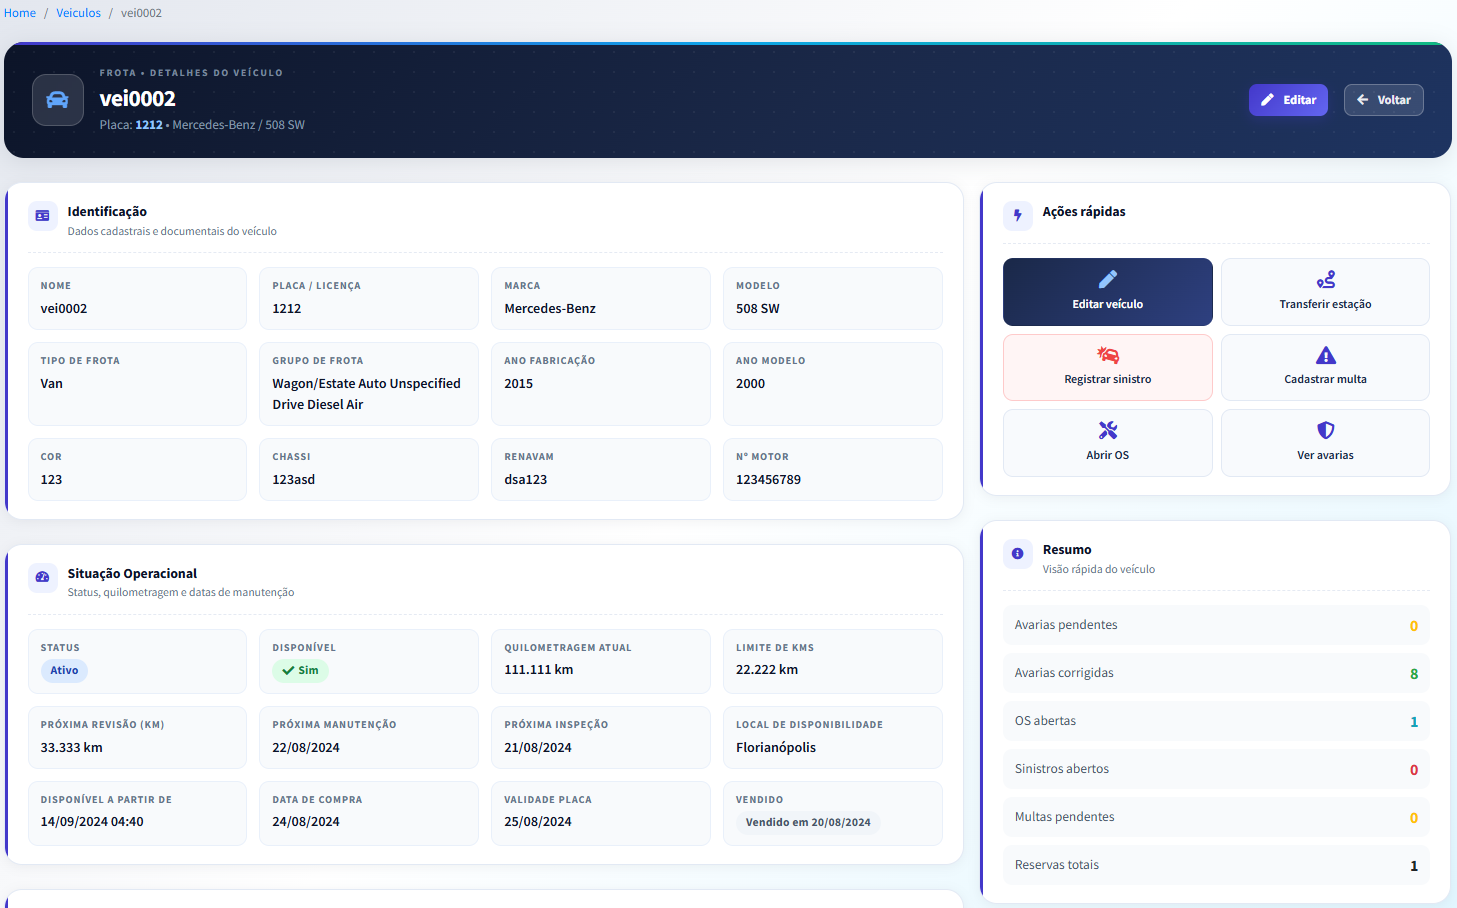
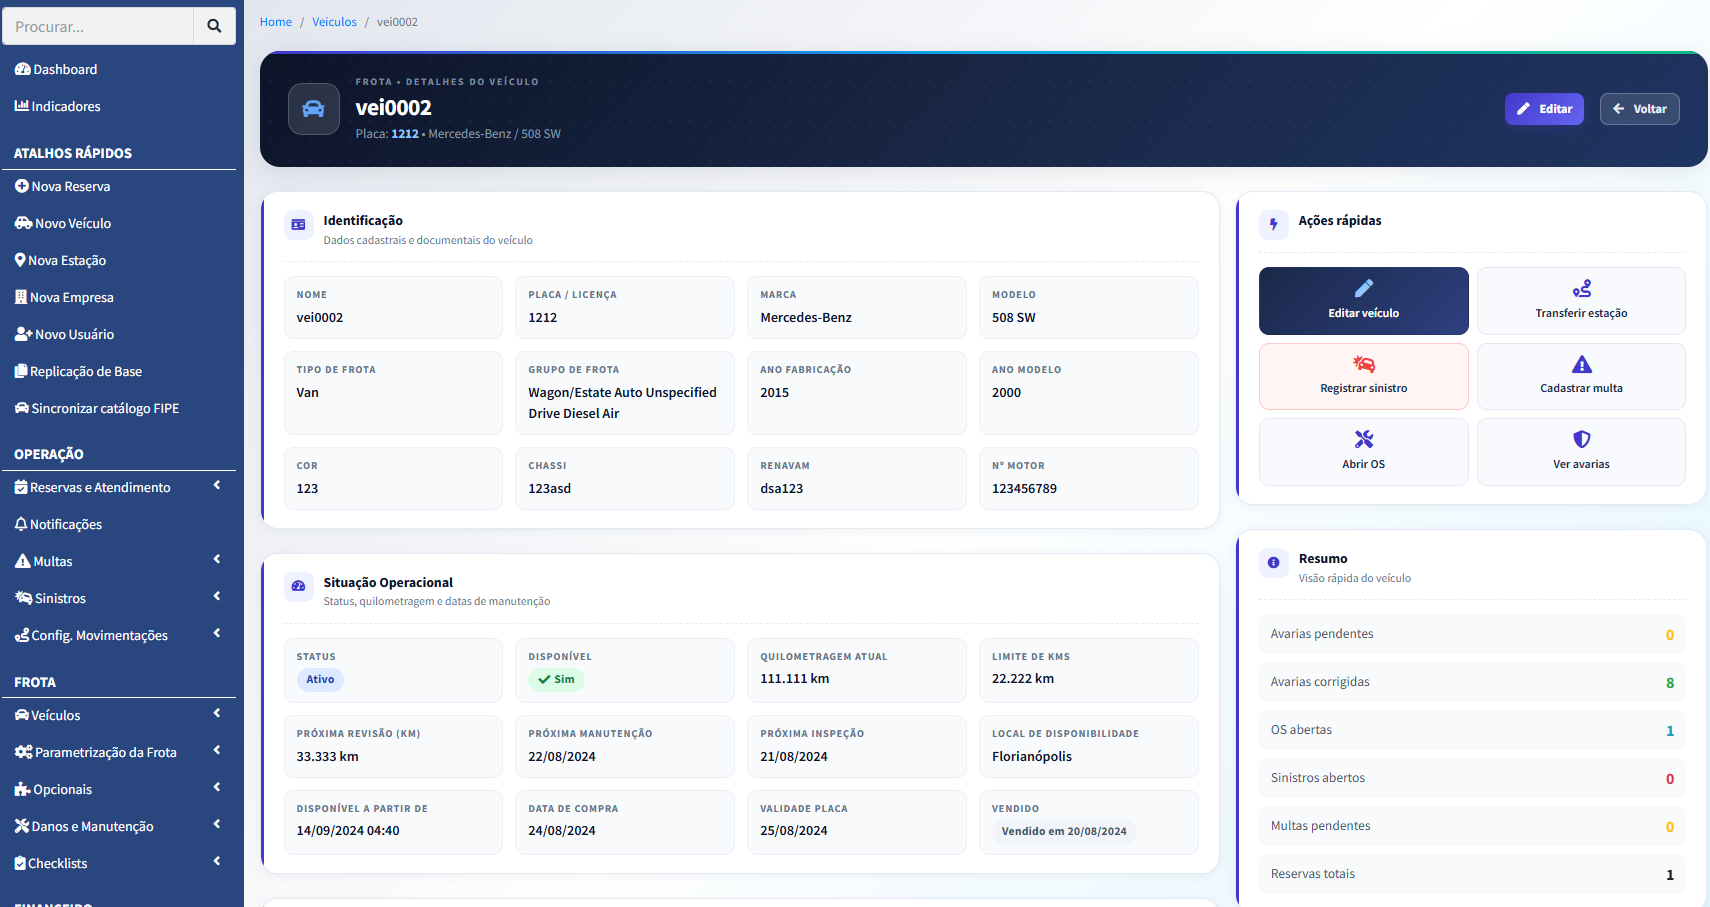
modifiacoes

diff --git a/resources/views/welcome.blade.php b/resources/views/welcome.blade.php
@@ -118,7 +118,7 @@
     }
     .nav-logo-icon {
         width: 36px; height: 36px; border-radius: 8px;
-        background: var(--bg); display: flex; align-items: center;
+        display: flex; align-items: center;
         justify-content: center; font-size: .85rem; color: #fff; flex-shrink: 0;
         transition: transform .3s;
     }
@@ -674,8 +674,10 @@
 <nav class="navbar" id="navbar">
     <div class="nav-inner">
         <a href="/" class="nav-logo">
-            <div class="nav-logo-icon"><i class="fas fa-car"></i></div>
-           <img src="{{'assets/imgs/logo-sem-texto.png'}}" alt="">
+            <div class="nav-logo-icon">
+                <img src="{{'assets/imgs/logo-sem-texto.png'}}" alt="">
+            </div>
+            DECARS
         </a>
         <ul class="nav-links" id="navLinks">
             <li><a href="#funcionalidades">Funcionalidades</a></li>
@@ -709,8 +711,7 @@
                     Gestão completa<br>da sua locadora<br>em <span class="line-accent" id="typewriterTarget"></span><span class="cursor" id="typewriterCursor"></span>
                 </h1>
                 <p class="hero-text reveal delay-2">
-                    Do check-in digital ao financeiro, do controle de multas às reservas online —
-                    tudo em um sistema robusto, pensado para quem vive o dia a dia da locação.
+                    Do check-in digital ao financeiro, do controle de multas às reservas online, tudo em um sistema robusto, pensado para quem vive o dia a dia da locação.
                 </p>
                 <div class="hero-ctas reveal delay-2">
                     <a href="#planos" class="btn-hero">Ver planos e preços</a>
@@ -726,9 +727,9 @@
                 </div>
             </div>
             <div class="hero-visual reveal-right delay-2">
-                <div class="hero-badge-float pos-tl">
+                {{-- <div class="hero-badge-float pos-tl">
                     <div class="dot"></div> Sistema Online
-                </div>
+                </div> --}}
                 <div class="hero-img-wrap">
                     <img src="{{'assets/welcome/home.png'}}" alt="">
                     {{-- Substitua pela imagem do sistema quando disponível --}}
@@ -810,7 +811,7 @@
                 <h2 class="section-title">Uma plataforma.<br>Operação completa.</h2>
             </div>
             <p class="section-sub reveal-right delay-1">
-                Cada módulo foi desenhado a partir de demandas reais de locadoras — não de suposições de mercado.
+                Cada módulo foi desenhado a partir de demandas reais de locadoras, não de suposições de mercado.
             </p>
         </div>
 
@@ -823,7 +824,7 @@
                         <div class="feature-slide-content">
                             <div class="feature-slide-tag"><i class="fas fa-calendar-check"></i> Reservas</div>
                             <h3>Controle total da agenda de locação</h3>
-                            <p>Receba reservas, valide disponibilidade em tempo real e gerencie contratos — tudo no mesmo lugar, sem conflito.</p>
+                            <p>Receba reservas, valide disponibilidade em tempo real e gerencie contratos, tudo no mesmo lugar, sem conflito.</p>
                             <div class="feature-items">
                                 <div class="feature-item"><i class="fas fa-check"></i> Calendário visual por veículo</div>
                                 <div class="feature-item"><i class="fas fa-check"></i> Reserva pelo próprio cliente (portal)</div>
@@ -1085,7 +1086,7 @@
         <div class="section-header" style="text-align:center">
             <div class="section-tag reveal" style="justify-content:center">Planos</div>
             <h2 class="section-title reveal delay-1" style="margin:0 auto .9rem">Investimento justo para cada tamanho de locadora</h2>
-            <p class="section-sub reveal delay-2" style="margin:0 auto">Sem taxa de implantação. Sem surpresas. Cancele quando quiser.</p>
+            {{-- <p class="section-sub reveal delay-2" style="margin:0 auto">Sem taxa de implantação. Sem surpresas. Cancele quando quiser.</p> --}}
         </div>
         <div class="pricing-toggle reveal delay-1">
             <span id="lblMonthly" class="active">Mensal</span>
@@ -1099,7 +1100,7 @@
                     <span class="currency">R$</span>
                     <span class="amount" data-monthly="149" data-annual="119">149</span>
                     <span class="period">/mês</span>
-                    <span class="annual-note" style="display:none">Cobrado anualmente — economia de R$360/ano</span>
+                    <span class="annual-note" style="display:none">Cobrado anualmente, economia de R$360/ano</span>
                 </div>
                 <p class="plan-desc">Para locadoras em fase inicial, com frota reduzida e operação centralizada.</p>
                 <ul class="plan-features">
@@ -1118,7 +1119,7 @@
                     <span class="currency">R$</span>
                     <span class="amount" data-monthly="299" data-annual="239">299</span>
                     <span class="period">/mês</span>
-                    <span class="annual-note" style="display:none">Cobrado anualmente — economia de R$720/ano</span>
+                    <span class="annual-note" style="display:none">Cobrado anualmente, economia de R$720/ano</span>
                 </div>
                 <p class="plan-desc">Para locadoras em crescimento que precisam de controle avançado e múltiplas filiais.</p>
                 <ul class="plan-features">
